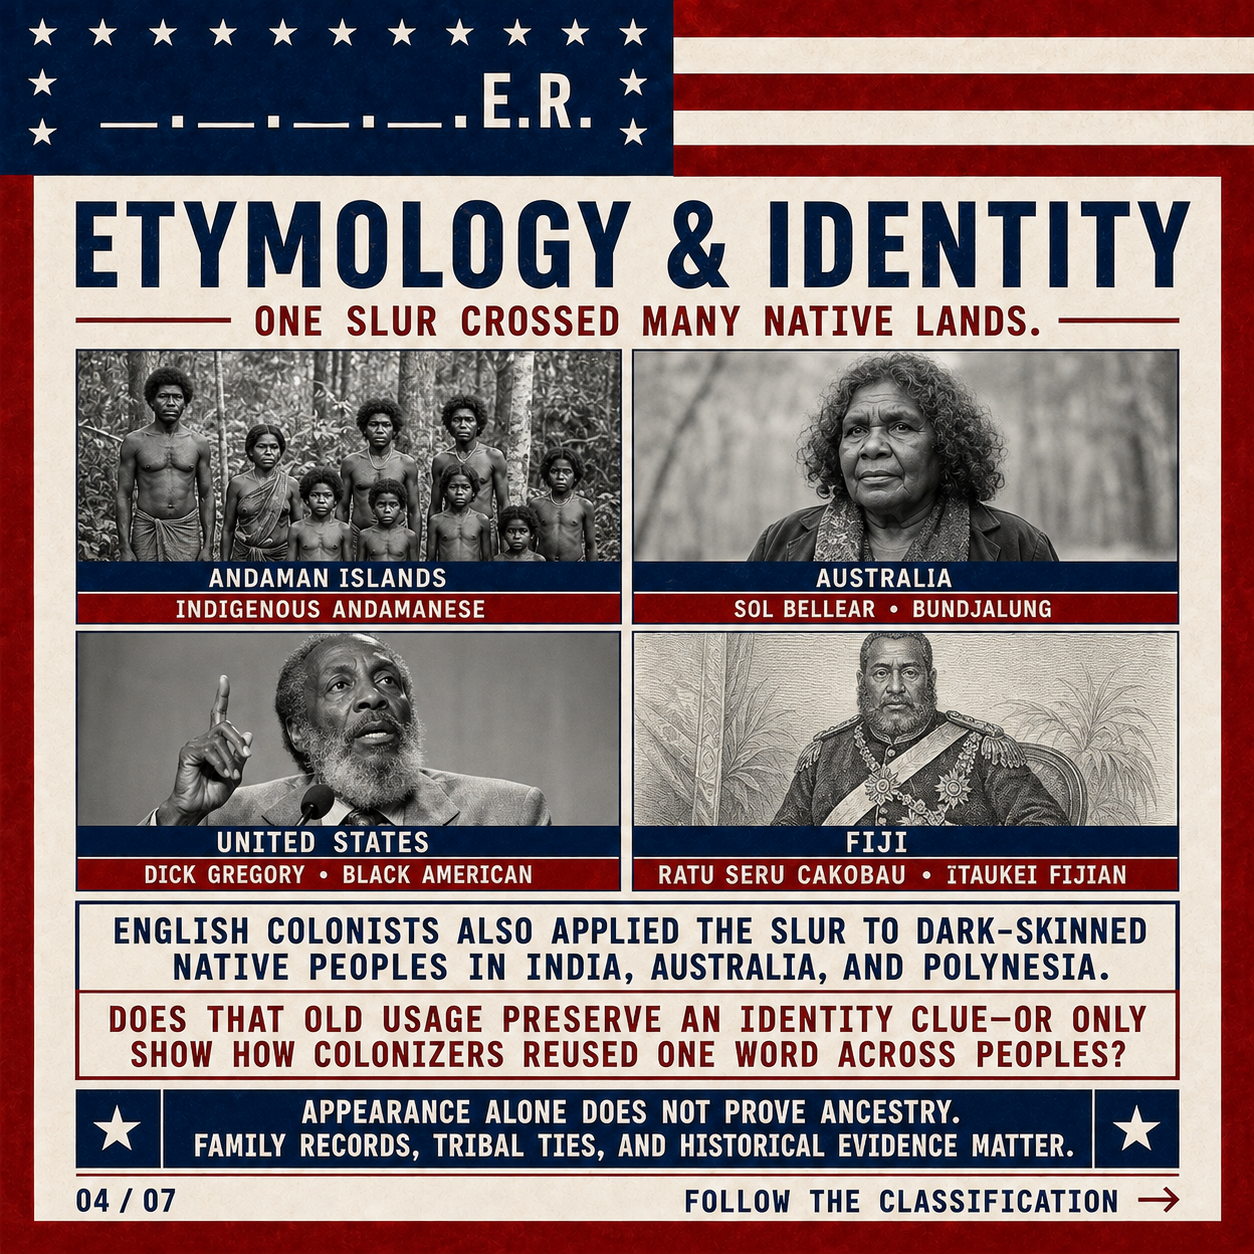
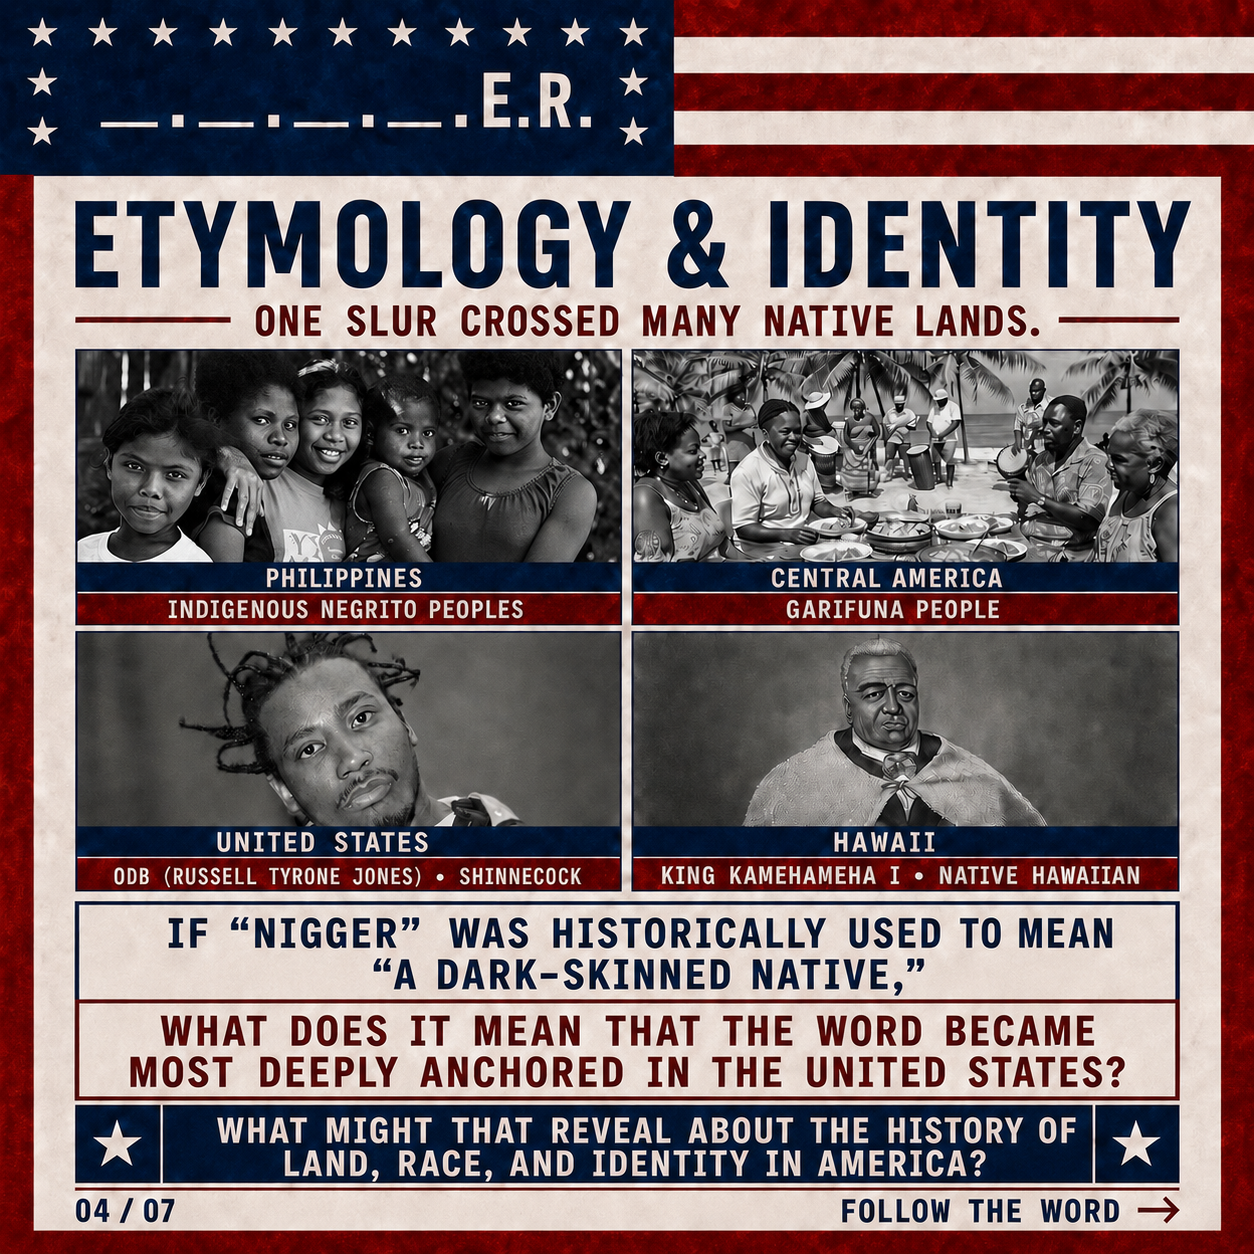
content(cipher): replace slide 4 identity image (Philippines/Garifuna/ODB/Kamehameha)
New slide-4 art covers Philippines (Negrito), Central America (Garifuna), U.S.
(ODB · Shinnecock), and Hawaii (King Kamehameha I), reframing the identity
question around why the word anchored most deeply in the U.S. Updated slide 4
alt/transcript/evidence, and adjusted slide 5 to read standalone (Andaman /
Australia / Dick Gregory / Fiji) rather than "the same slide."

diff --git a/src/data/cipher.ts b/src/data/cipher.ts
@@ -116,35 +116,35 @@ export const SLIDES: CipherSlide[] = [
   {
     id: "04-identity",
     src: "/art/cipher/04-identity.png",
-    alt: "Documentary-style panel 'Etymology & Identity — one slur crossed many native lands,' showing figures labeled Andaman Islands, Australia (Sol Bellear · Bundjalung), United States (Dick Gregory), and Fiji (Ratu Seru Cakobau).",
+    alt: "Documentary-style panel 'Etymology & Identity — one slur crossed many native lands,' showing groups labeled Philippines (Indigenous Negrito Peoples), Central America (Garifuna People), United States (ODB / Russell Tyrone Jones · Shinnecock), and Hawaii (King Kamehameha I · Native Hawaiian).",
     transcript:
-      "Etymology & Identity — 'one slur crossed many native lands.' Four labeled portraits: Andaman Islands (Indigenous Andamanese); Australia (Sol Bellear · Bundjalung); United States (Dick Gregory · Black American); Fiji (Ratu Seru Cakobau · iTaukei Fijian). Text: English colonists also applied the slur to dark-skinned native peoples in India, Australia, and Polynesia. It asks whether that old usage preserves an identity clue or only shows how colonizers reused one word across peoples, and cautions: appearance alone does not prove ancestry — family records, tribal ties, and historical evidence matter.",
+      "Etymology & Identity — 'one slur crossed many native lands.' Four labeled images: Philippines (Indigenous Negrito Peoples); Central America (Garifuna People); United States (ODB / Russell Tyrone Jones · Shinnecock); Hawaii (King Kamehameha I · Native Hawaiian). Text: if the slur was historically used to mean 'a dark-skinned native,' what does it mean that the word became most deeply anchored in the United States? What might that reveal about the history of land, race, and identity in America?",
     labels: [
       { text: "Interpretive Connection", cat: "interpretive" },
       { text: "Identity Question", cat: "interpretive" },
     ],
     evidence: {
-      claim: "That colonists applied the same slur to dark-skinned Indigenous peoples across several regions, raising an identity question.",
-      source: SOURCE_NEEDED + " (documentation for the colonial application of the term across these regions is required).",
-      uncertain: "Whether shared colonial usage implies any shared identity or ancestry. The slide itself states appearance does not prove ancestry.",
-      questions: "What primary colonial-era records document this usage in each region? Does shared usage indicate anything beyond colonizers reusing one epithet?",
+      claim: "That the slur was historically applied to dark-skinned Indigenous peoples across regions (Philippines, Central America, Hawaii), and asks why it became most deeply anchored in the United States.",
+      source: SOURCE_NEEDED + " (documentation for the term's application to each named people, and for the individual heritage claims, is required).",
+      uncertain: "Whether shared usage implies shared identity or ancestry, and the specific heritage claims (e.g., ODB's Shinnecock ancestry) each need their own verification.",
+      questions: "What primary records document the term's application in each region? What is documented about each named individual's Indigenous heritage, and about why the word anchored in the U.S.?",
     },
   },
   {
     id: "05-identity-alt",
     src: "/art/cipher/05-identity-alt.png",
-    alt: "A second, more stylized version of the 'Etymology & Identity — one slur crossed many native lands' panel, with the same four regions (Andaman Islands, Australia, United States, Fiji).",
+    alt: "A second 'Etymology & Identity — one slur crossed many native lands' panel, extending the theme to Andaman Islands (Indigenous Andamanese), Australia (Sol Bellear · Bundjalung), United States (Dick Gregory), and Fiji (Ratu Seru Cakobau).",
     transcript:
-      "A second visual treatment of the same 'Etymology & Identity' slide: same claim (one slur crossed many native lands) and the same four regions — Andaman Islands, Australia (Sol Bellear · Bundjalung), United States (Dick Gregory), and Fiji (Ratu Seru Cakobau) — with the same cautions that appearance does not prove ancestry and that historical evidence matters.",
+      "Etymology & Identity — 'one slur crossed many native lands,' continued with four more labeled portraits: Andaman Islands (Indigenous Andamanese); Australia (Sol Bellear · Bundjalung); United States (Dick Gregory · Black American); Fiji (Ratu Seru Cakobau · iTaukei Fijian). Text: English colonists also applied the slur to dark-skinned native peoples in India, Australia, and Polynesia. It asks whether that old usage preserves an identity clue or only shows how colonizers reused one word across peoples, and cautions: appearance alone does not prove ancestry — family records, tribal ties, and historical evidence matter.",
     labels: [
       { text: "Interpretive Connection", cat: "interpretive" },
       { text: "Identity Question", cat: "interpretive" },
     ],
     evidence: {
-      claim: "An alternate visual treatment of the identity slide; same claim and caveats.",
-      source: SOURCE_NEEDED + " (same documentation need as the previous slide).",
-      uncertain: "Same open question: shared colonial usage does not establish shared identity or ancestry.",
-      questions: "Same as the previous slide — which primary records document the term's application in each region?",
+      claim: "Extends the identity theme to four more regions (Andaman, Australia, U.S., Fiji), asking whether shared colonial usage preserves an identity clue.",
+      source: SOURCE_NEEDED + " (documentation for the colonial application of the term across these regions is required).",
+      uncertain: "Whether shared colonial usage implies any shared identity or ancestry; the slide itself cautions appearance does not prove ancestry.",
+      questions: "Which primary colonial-era records document this usage in each region?",
     },
   },
   {
